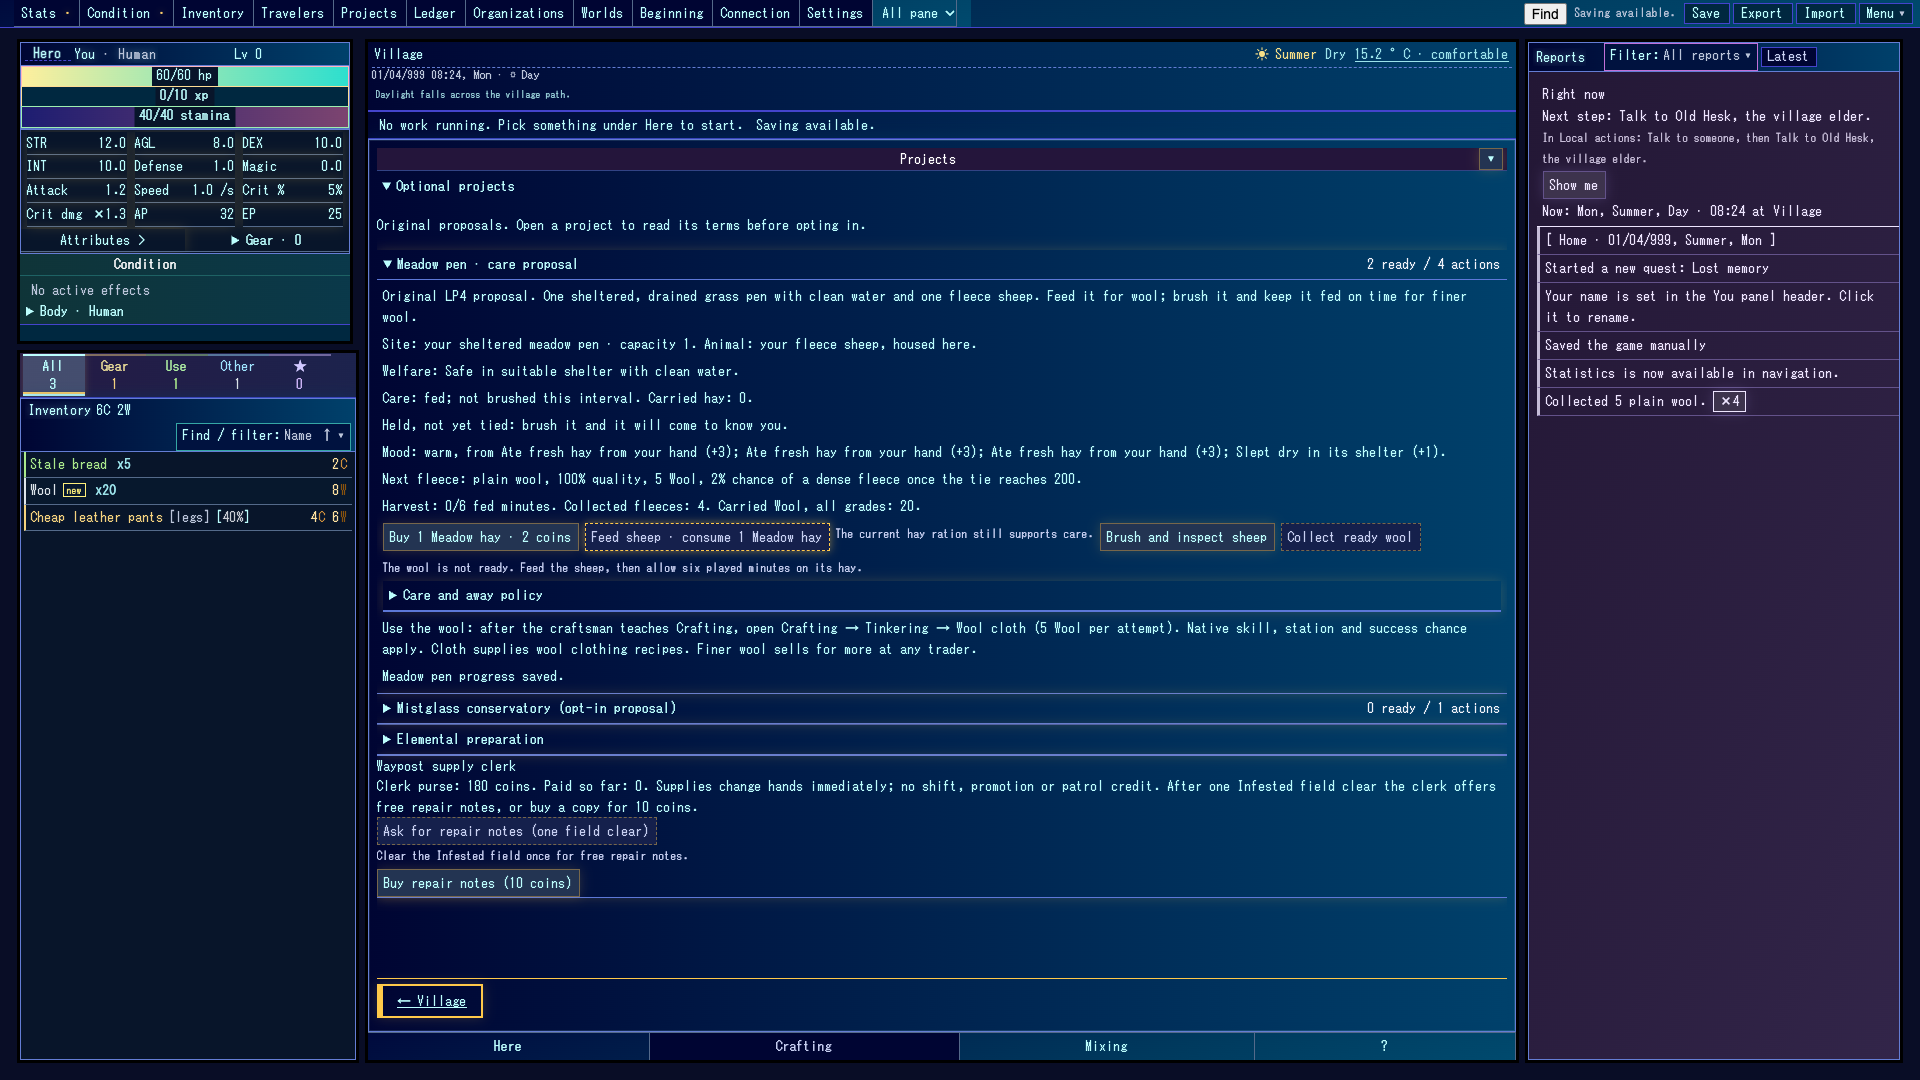
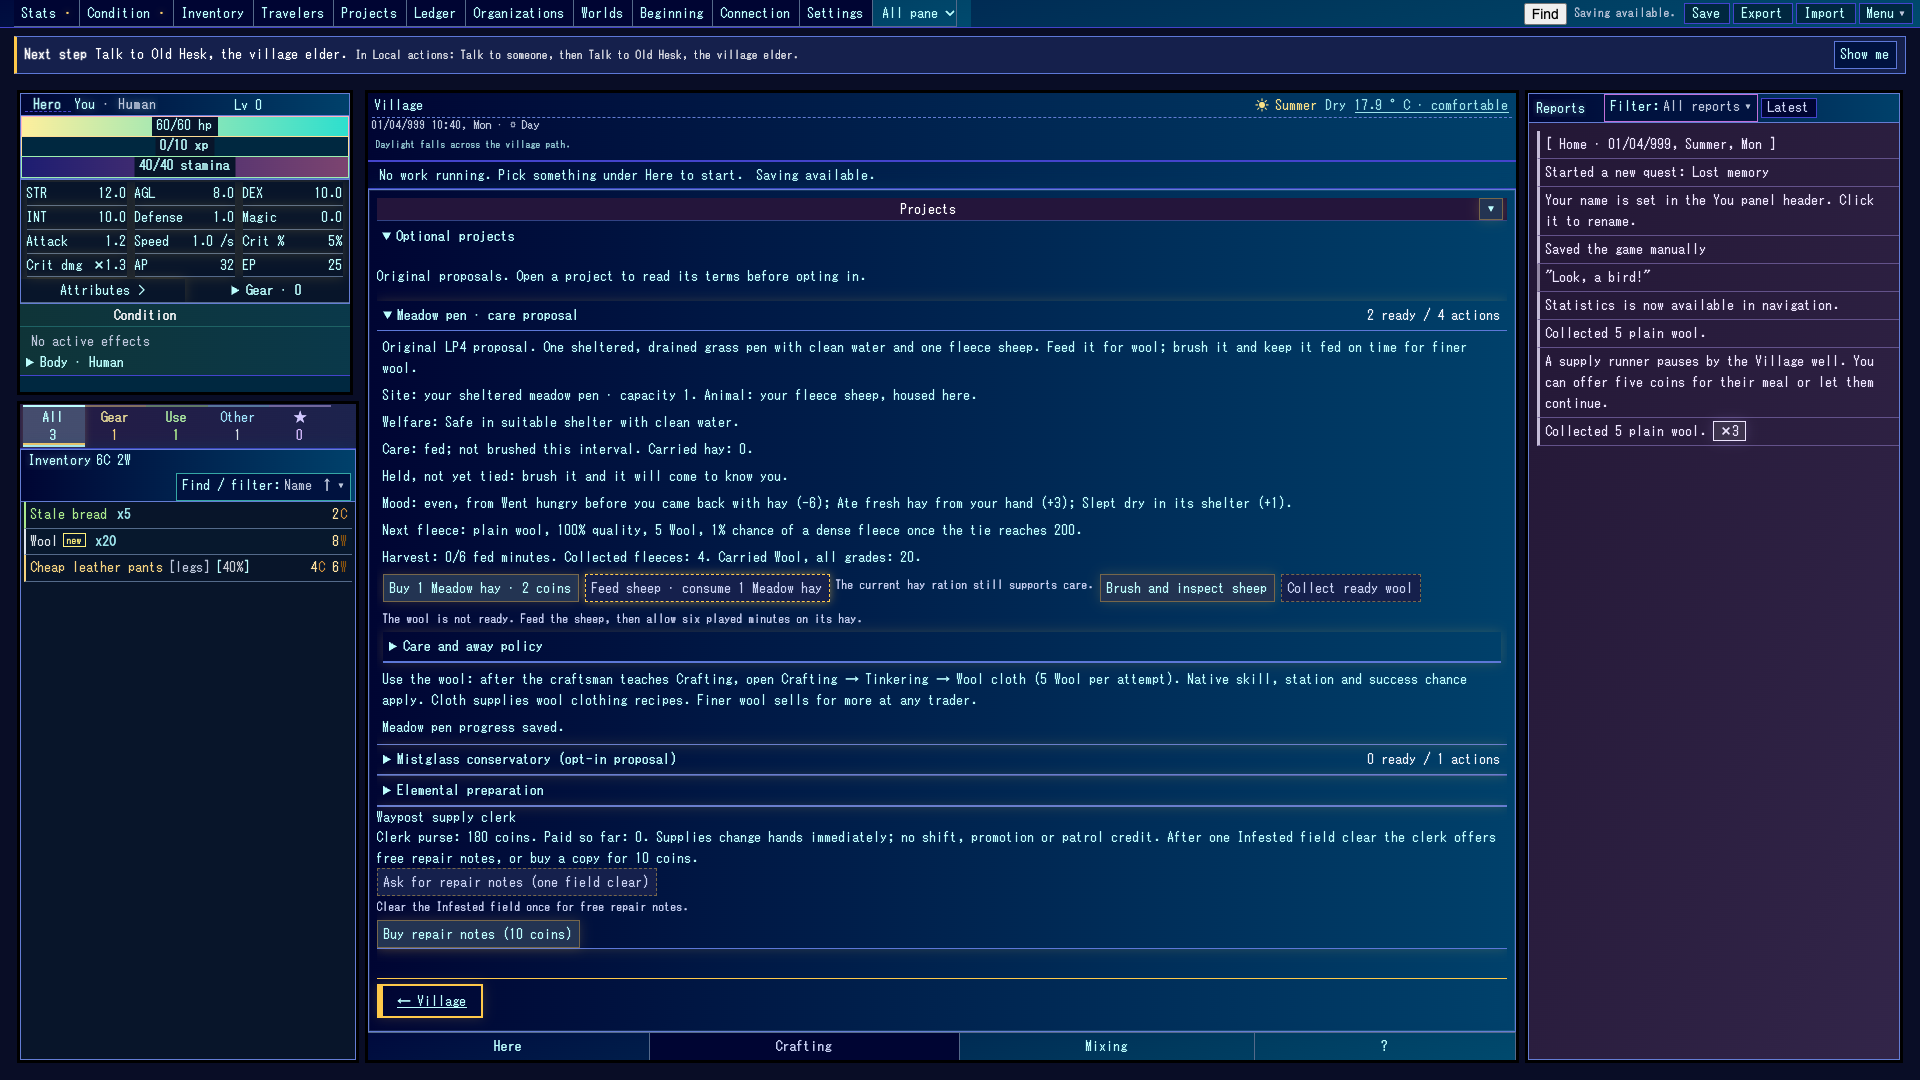
Produce from care follow-ups: root clock for sheep mood, graded-stack removal, late-fed proof (FRC56)
- The sheep's thought rows now run on the root clock (TMR1, expansionState.clock)
  through a rootClock port; on the calendar clock a sheep write could prune
  another holder's running rows. Domain-level test added (AR3).
- items_by_id removal (finish_game_action) takes the stack that met the
  condition, not always the plain key: a player holding only fine Wool passed
  the fort step's check, then the removal missed it (ITM1, ITM5). main.js stays
  at its 10115-line baseline.
- Livelihood row says "a fleece ready" (a dense fleece is 7, not 5) (LVR13).
- Browser journey: the neglected sheep is now fed 40 minutes late and never
  brushed, so the needs-seam hungry row shows (UR70-UR75); wool values recorded.

Checks: build; focused tests (fleece_from_care, habitat_care, livelihoods,
mood_thoughts, ui_contract: pass); check:flow 0 findings; check:arch; check:rules;
scripts/fleece_care_browser.mjs PASS at 1920x1080, bundle aaf452f79751:
neglected 20 plain Wool (value 8), kept 15 Wool at 115% (value 11) plus 5 plain,
mood even with "Went hungry (-6)" against warm; save/reload and Export/Import
identical. AR1-AR16, FLR1-FLR6. Agent-verified, not human-reviewed.

Changed region(s): [[0.0, 0.0306, 1.0, 0.8861]]

diff --git a/src/main.js b/src/main.js
@@ -3720,17 +3720,17 @@ function finish_game_action({action_key, conditions_status, dialogue_key}){
 
         const success_conditions = action.getAvailabilityComponent().success_conditions;
         const start_conditions = action.getAvailabilityComponent().start_conditions;
-
+        const heldKeyById = (id, n) => Object.keys(character.getItems()).find(k => JSON.parse(k).id === id && character.getItems()[k].count >= n) ?? item_templates[id].getInventoryKey();
         Object.keys(success_conditions[0]?.items_by_id || {}).forEach(item_id => {
-            //no need to check if they are in inventory, as without them action would have been conditionally failed before reaching here
+            //the stack that met the condition (process_conditions accepts any quality of the id, e.g. graded Wool), else the plain key
             if(success_conditions[0].items_by_id[item_id].remove) {
-                character.removeFromInventory([{item_key: item_templates[item_id].getInventoryKey(), item_count: success_conditions[0].items_by_id[item_id].count}]);
+                character.removeFromInventory([{item_key: heldKeyById(item_id, success_conditions[0].items_by_id[item_id].count), item_count: success_conditions[0].items_by_id[item_id].count}]);
             }
         });
         Object.keys(start_conditions.items_by_id || {}).forEach(item_id => {
             //again no need to check
             if(start_conditions.items_by_id[item_id].remove_on_success && is_won || start_conditions.items_by_id[item_id].remove_on_fail && !is_won) {
-                character.removeFromInventory([{item_key: item_templates[item_id].getInventoryKey(), item_count: start_conditions.items_by_id[item_id].count}]);
+                character.removeFromInventory([{item_key: heldKeyById(item_id, start_conditions.items_by_id[item_id].count), item_count: start_conditions.items_by_id[item_id].count}]);
             }
         });
     }
@@ -9492,7 +9492,7 @@ configureHomes({registry:expeditionRegistry,root:()=>expansionState,locations,re
     effects:p00HouseholdEffects,commit:plan=>persistExpansion(plan),setForm:form=>{character.getBioComponent().race=form;},log:text=>log_message(text,'notification')});hostPlaceClock({homes:residenceState,expansion:()=>expansionState,character:()=>character,locationId:()=>current_location?.id,inventory:()=>readInventoryOwner(character.getItems()),gameplaySnapshot,assertSpend:key=>assertNativeItemDisposition(expansionState,key),commit:plan=>persistExpansion(plan),log:text=>log_message(text,'notification')});configureRankGap({settle:({minutes,stamina})=>{const plan=advanceChroniclePlan({state:expansionState,external:{money:character.money},gameplay:gameplaySnapshot()},minutes,true),fs=character.getFullStats();if(plan.state.clock-expansionState.clock!==minutes)throw Error('Finish the current local decision first.');plan.native={...plan.native,staminaToFull:Math.min(fs.max_stamina,(plan.native?.staminaToFull??fs.max_stamina-fs.stamina)+stamina)};plan.state.sequence++;persistExpansion(plan);domainRegistry.tick(minutes);}});
 configureResourceDomains({harvestContext,harvestWritable,harvestReady,harvestAutomaticReady,
     harvestTransaction,grantHarvest,logMessage:log_message,random:key=>gameKeyedRandom(STREAMS.loot,key),
-    habitatContext,commitHabitatPlan,clock:()=>calendarMinutes(current_game_time),
+    habitatContext,commitHabitatPlan,clock:()=>calendarMinutes(current_game_time),rootClock:()=>expansionState.clock,
     harvestContainer:()=>document.getElementById('location_actions_div'),careContainer:projectsHome,
     readInspector:()=>({harvest:harvestOwner,mixtures:getMixtureOwner(),ruleTrace:getMixtureOwner()?.ruleLaws?.receipts?.[getMixtureOwner()?.ruleLaws?.lastReceipt]?.trace,expansion:expansionState,inventory:character.getItems(),clock:calendarMinutes(current_game_time),handling:{context:harvestContext(),ready:harvestReady(),automaticReady:harvestWritable()&&harvestAutomaticReady()}}),
     developer:()=>is_on_dev()||new URLSearchParams(location.search).get('harvest-inspector')==='1'});

diff --git a/tests/fleece_from_care.test.js b/tests/fleece_from_care.test.js
@@ -84,3 +84,17 @@ test('older pen saves without a last-meal receipt still load, and bad receipts r
     assert.equal(readFleece({owner: p.owner}).quality, FLEECE.plain);
     assert.equal(p.inventory[hay], undefined);
 });
+
+test('the pen writes the sheep\'s rows on the root clock, so another holder\'s running thought survives a care act', async () => {
+    const {configureResourceDomains, setHabitatOwner} = await import('../src/native_resources_domain.js');
+    const {addMoodThought, readMood} = await import('../src/mood_thoughts_domain.js');
+    const {domainRegistry} = await import('../src/domain_registry.js');
+    let owner = null, money = 100, inventory = {}; const root = 4320, calendar = 6240; // root (TMR1) and calendar minutes differ, as in play
+    configureResourceDomains({clock: () => calendar, rootClock: () => root, logMessage: () => {},
+        habitatContext: () => ({owner, clock: calendar, money, inventory, location: H.location, world: H.world, ready: true}),
+        commitHabitatPlan: plan => { owner = plan.state; setHabitatOwner(owner); money = plan.money; for(const {key, amount} of plan.items) inventory[key] = (inventory[key] || 0) + amount; }});
+    addMoodThought({holder: 'other.person', subject: 'player', source: 'test', magnitude: 5, minutes: 600, line: 'Still pleased.', key: 'other:1'}, root);
+    for(const a of ['build', 'adopt', 'buy_feed', 'feed']) domainRegistry.command('meadow_pen', 'act')(a);
+    assert.equal(readMood('other.person', root + 1).total, 5);
+    assert.ok(readMood(SHEEP_HOLDER, root).rows.some(r => r.source === 'fed'));
+});

diff --git a/src/native_resources_domain.js b/src/native_resources_domain.js
@@ -49,10 +49,11 @@ function tickHarvest(minutes){
 
 // FRC56: the sheep's mood is its own thought rows (mood_thoughts); plans read it and return the rows a care act adds. Rows are
 // written before the commit so its save carries them; a failed commit can leave one keyed row behind (no remove port), harmless.
-const habitatRead=()=>{const c=ports.habitatContext();return {...c,mood:readMood(SHEEP_HOLDER,c.clock)};};
+// Thought rows run on the root clock (TMR1, expansionState.clock), shared with every other holder; the pen keeps its calendar clock.
+const habitatRead=()=>{const c=ports.habitatContext();return {...c,mood:readMood(SHEEP_HOLDER,ports.rootClock())};};
 function actHabitat(action){
-    const context=habitatRead(),plan=planHabitatAction(habitatOwner,action,context);
-    for(const t of plan.thoughts||[])addMoodThought(t,context.clock);
+    const context=habitatRead(),plan=planHabitatAction(habitatOwner,action,context),root=ports.rootClock();
+    for(const t of plan.thoughts||[])addMoodThought(t,root);
     ports.commitHabitatPlan(plan);
     if(plan.fleece)ports.logMessage(`Collected ${plan.fleece.amount} ${plan.fleece.grade} wool${plan.fleece.deluxe?' (a dense fleece)':''}.`,'notification');
 }

diff --git a/src/livelihood_sources.js b/src/livelihood_sources.js
@@ -35,7 +35,7 @@ registerLivelihoodSource('base.frontier', (state, ctx) => {
         const h = habitatFacts(ctx.habitat.owner, ctx.habitat.clock), s = h.state;
         rows.push({id: 'frontier.village.meadow_pen', kind: 'herd', label: 'Meadow pen',
             stage: !s?.animal ? 'set up' : 'running',
-            detail: !s?.animal ? 'no sheep yet' : h.ready ? `${HABITAT.yield} wool ready` : 'sheep in care',
+            detail: !s?.animal ? 'no sheep yet' : h.ready ? 'a fleece ready' : 'sheep in care',
             income: null, runBy: 'self',
             obligations: NONE(penAuthority.authority.known ? 'Your own pen; the village knows of it but asks nothing recurring.' : 'Your own pen; no authority knows of it, so no rent or tax.'), ...penAuthority});
     }
